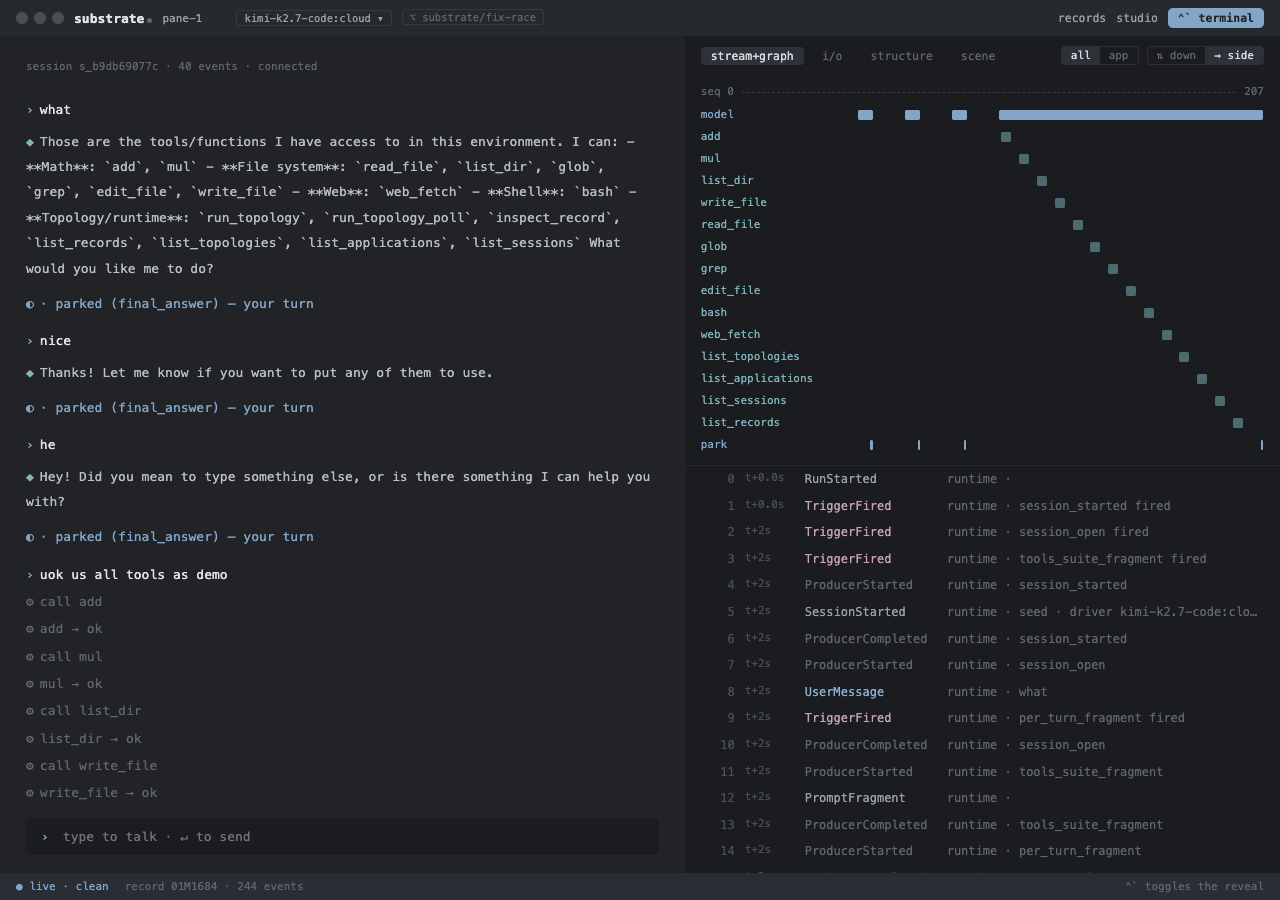
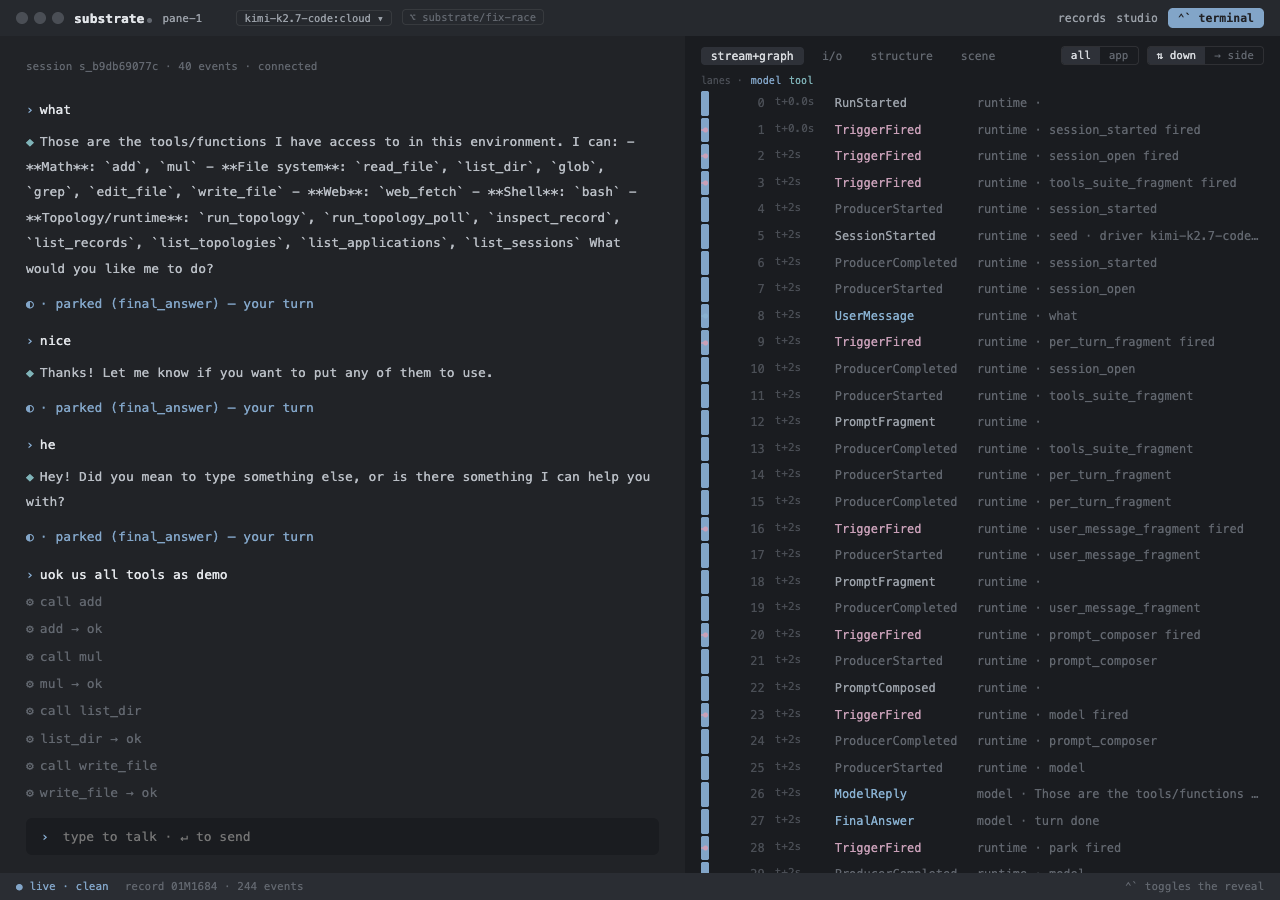
phase 4z13: model lane is continuous — spans the whole session (first envelope to SessionEnded/last). No gaps.

diff --git a/web/reveal.html b/web/reveal.html
@@ -1018,30 +1018,27 @@ class Component extends DCLogic {
     // ToolCall → ToolResult; the model span runs its ProducerStarted → FinalAnswer; park spans
     // TriggerFired → Park. Concurrent spans of one kind pack into sub-tracks that appear ONLY
     // when real overlap exists, so the graph never widens for a merely long run.
-    // Session topology's shape: the model is the durable participant.
-    // Everything else (UserMessage, ToolCall, ToolResult, Park) is a
-    // message TO the model lifeline. Two lanes suffice: `model` and
-    // `tool`. Park lives on the model lane as a return-to-model dot
-    // rather than a lane of its own. Model span = ProducerStarted →
-    // FinalAnswer (D29 amendment: "the turn is the model's"), one
-    // per turn regardless of refire-model cycles.
+    // Session topology's shape: the model is the DURABLE participant —
+    // there for every seq the session exists. The lifeline is one
+    // continuous vertical bar from the session's first envelope to
+    // its last (or to SessionEnded's seq). Tool cycles dip out to
+    // the tool lane and return. Park is a moment on the model lane,
+    // not a break in it.
     const _lastSeq = EV.length ? EV[EV.length - 1].seq : 0;
+    const _firstSeq = EV.length ? EV[0].seq : 0;
+    const _endedSeq = (function () {
+      for (const x of EV) if (x.kind === 'SessionEnded') return x.seq;
+      return _lastSeq;
+    })();
     const spansByKind = { model: [], tool: [] };
+    if (EV.length) {
+      spansByKind.model.push({
+        start: _firstSeq, end: _endedSeq,
+        color: '#3d5166', bright: '#82a5c8',
+      });
+    }
     const _calls = {};
-    let _modelSpanStart = null;
     EV.forEach(e => {
-      if (e.kind === 'ProducerStarted' && e.payload.kind === 'model' && _modelSpanStart === null) {
-        _modelSpanStart = e.seq;
-      }
-      if (e.kind === 'FinalAnswer' && _modelSpanStart !== null) {
-        // Extend the span to include the following Park (return-to-
-        // model marker) so the model bar reads as one continuous
-        // activation through the turn's park boundary.
-        const nextPark = EV.find(x => x.seq > e.seq && x.kind === 'Park');
-        const end = nextPark ? nextPark.seq : e.seq;
-        spansByKind.model.push({ start: _modelSpanStart, end, color: '#3d5166', bright: '#82a5c8' });
-        _modelSpanStart = null;
-      }
       if (e.kind === 'ToolCall') _calls[e.payload.call_id] = { start: e.seq, tool: e.payload.tool };
       if (e.kind === 'ToolResult') {
         const c = _calls[e.payload.call_id];
@@ -1052,9 +1049,6 @@ class Component extends DCLogic {
         });
       }
     });
-    if (_modelSpanStart !== null) {
-      spansByKind.model.push({ start: _modelSpanStart, end: _lastSeq, color: '#3d5166', bright: '#82a5c8' });
-    }
     const laneDefs = [];
     Object.keys(spansByKind).forEach(kind => {
       const spans = spansByKind[kind].sort((a, b) => a.start - b.start);
